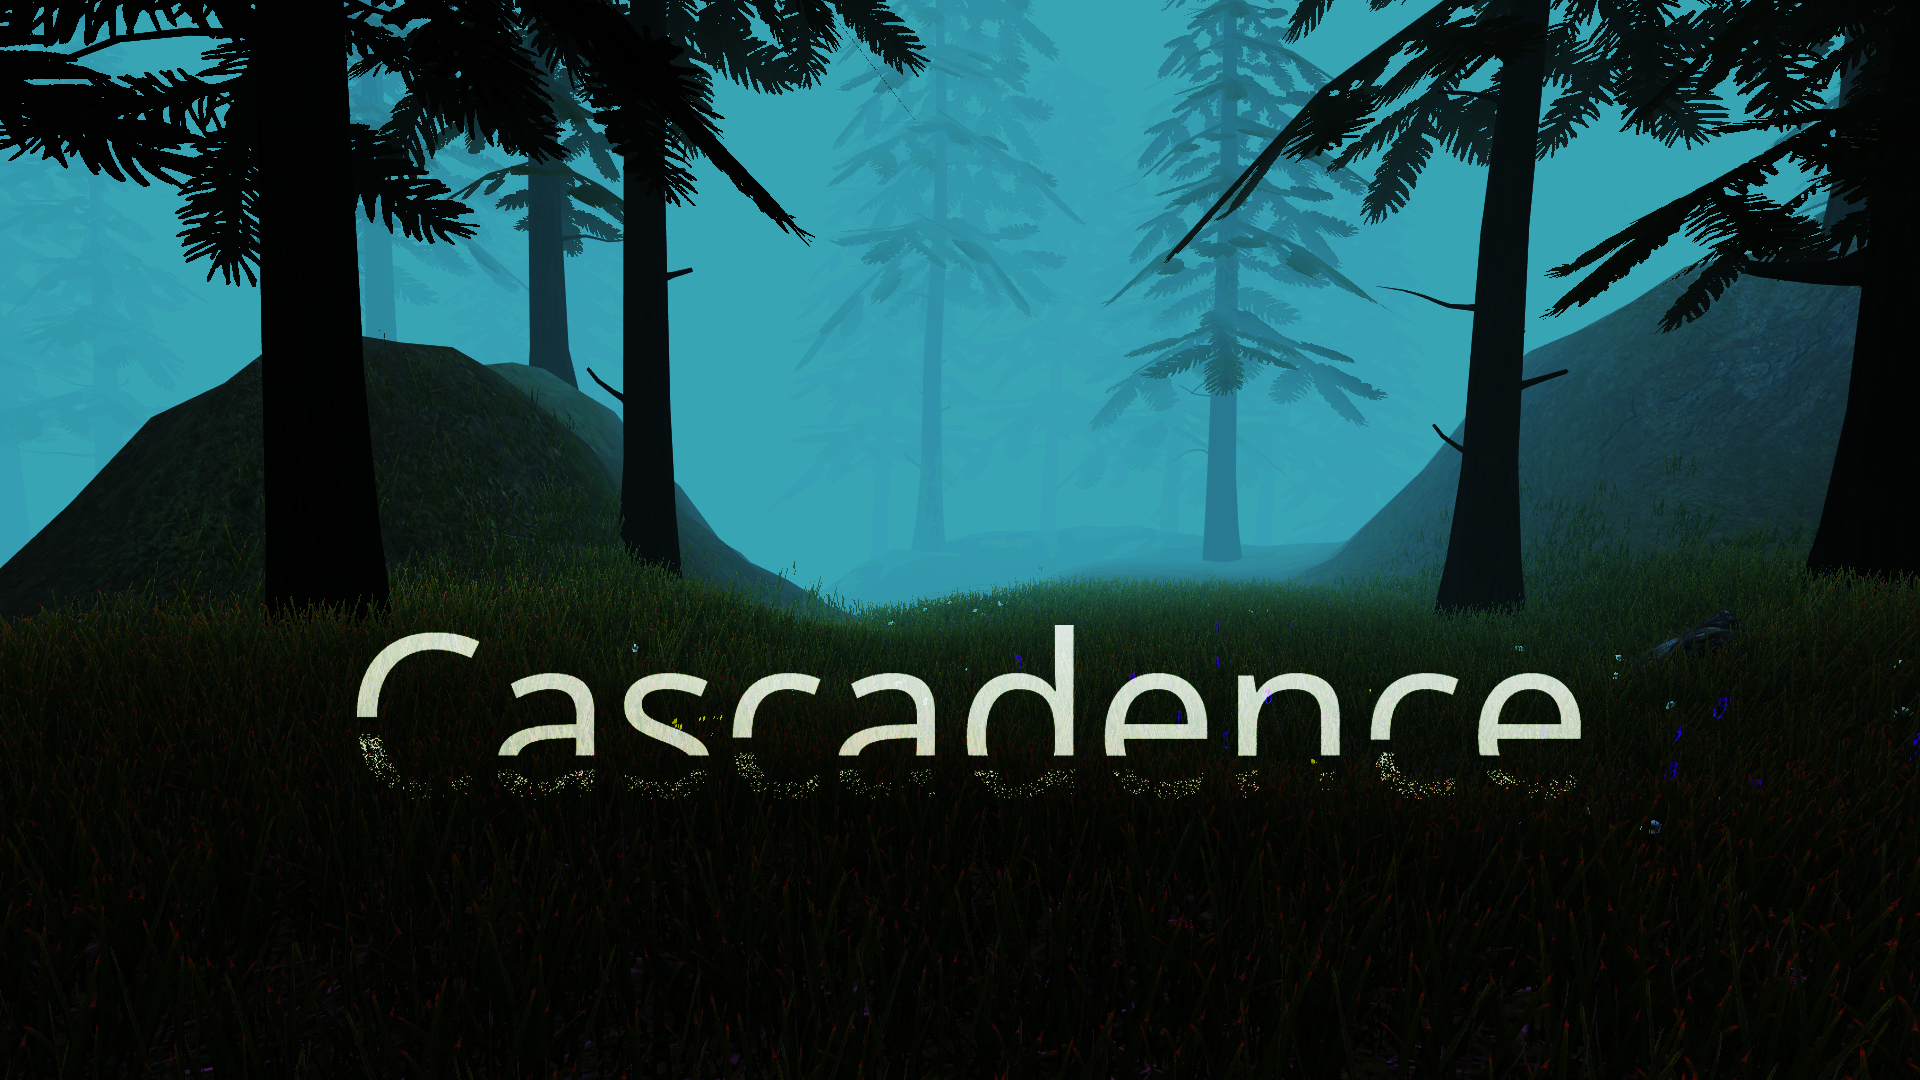
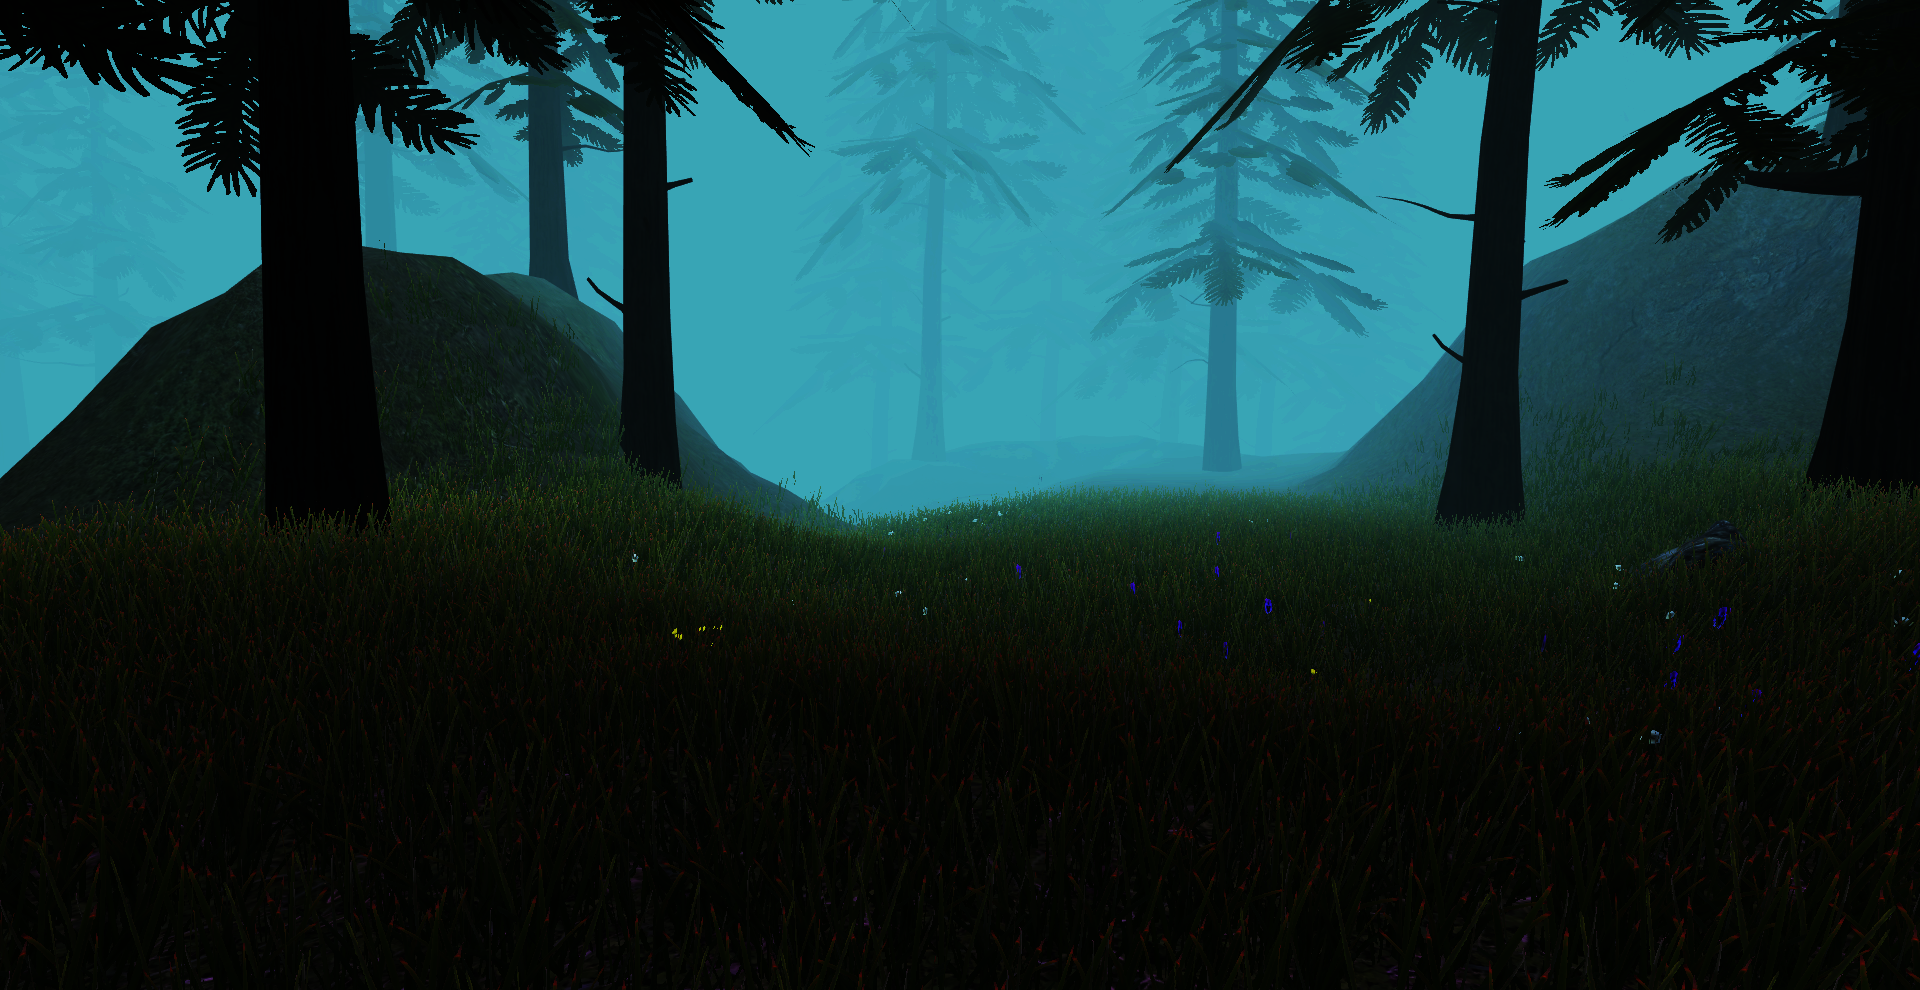
added dl button and responsive updates

diff --git a/stylesheet.css b/stylesheet.css
@@ -13,30 +13,72 @@ body {
     height: 100%;
 }
 
-#title_logo {
-  display: block;
-  max-width: 800px;
-  height: auto;
-  margin: 0 auto;
-  padding: 50px 20px 20px 20px;
+#logo-img-cont{
+    top: 0;
+    left: 50%;
+    -webkit-transform: translateX(-50%);
+    transform: translateX(-50%);
+    width: 100%;
+    position: absolute;
+    display: flex;
+    align-items: center;
+    justify-content: center;
 }
+
+#title_logo {
+    display: block;
+    height: auto;
+    width: 60%;
+    margin-top: 22%;
+}
+
+#dl-btn-cont{
+    top: 0;
+    left: 50%;
+    -webkit-transform: translateX(-50%);
+    transform: translateX(-50%);
+    width: 100%;
+    position: absolute;
+    display: flex;
+    align-items: center;
+    justify-content: center;
+  }
+  
+  #dl-btn {
+    font-size: 1.7vw;
+    margin-top: 41%;
+    box-shadow: 0 1px 8px #c466ff;
+    padding: 10px 30px;
+    background-color: #007bff00;
+}
+
+#dl-btn:hover{
+    box-shadow: 0 1px 12px #c466ff;
+    background-color: #007bff12;
+}
+
+#dl-btn:active{
+    margin-top: 41.1%;
+    box-shadow: 0 1px 18px #c466ff;
+
+}
+
+
 
 #email_cont {
     border-top: 30px solid rgb(0, 11, 16);
-    padding: 100px 0px;
+    padding: 100px 40px;
     background-color: #121319;
 }
 
 .cap-cont {
-    font-size: 30px;
     padding: 30px 0px;
     display: flex;
     align-items: center;
     justify-content: center;
     width: 100%;
-    /* top: 100px; */
     position: absolute;
-    height: 150px;
+    height: 14%;
     background-color: #000000e8;
   }
 
@@ -87,7 +129,7 @@ body {
 
 h2 {
     text-align: center;
-    font-size: 38px;
+    font-size: 2vw;
     margin: 0px;
     padding: 20px 10px;
     color: #47a9b7;
@@ -97,19 +139,7 @@ h2 {
   font-size: 30px;
 }
 
-#dl-btn-row {
-  max-width: 600px;
-  margin: 0 auto;
-  margin-top: 300px;
-  text-align: center;
-}
 
-#dl-btn {
-  font-size: 24px;
-  margin: 10px;
-  padding: 10px 30px;
-  background-color: #0058b7;
-}
 
 .fas {
   padding-left: 5px;
@@ -154,26 +184,14 @@ footer {
   color: rgb(210,210,210);
 }
 
-@media only screen and (max-width: 900px) and (min-width: 600px)  {
-    .cap-cont {
-        
-        padding: 30px 0px;
-        height: 80px;
-
-    }
-    h2{
-        font-size: 22px;
+@media only screen and (max-width: 1200px) and (min-width: 600px)  {
+    .sub-h1{
+        font-size: 26px;
     }
 }
 
 @media only screen and (max-width: 600px)  {
-    .cap-cont {
-        
-        padding: 20px 0px;
-        height: 50px;
-
-    }
-    h2{
-        font-size: 16px;
+    .sub-h1{
+        font-size: 23px;
     }
 }

diff --git a/index.html b/index.html
@@ -28,12 +28,15 @@
 <body>
   <main id="cont">
     <section id="splash_sec">
-    <img id="title-background" src="./imgs/Background.png" alt="Cascadence Logo">
-      <!-- <img id="title_logo" src="./imgs/Game-Logo-White.png" alt="Faded Domain Logo"> -->
-      <!-- <div id="dl-btn-row">
-        <div class="sub-h1 lg-head">Try the technical demo</div>
-        <a id="dl-btn" class="btn btn-primary" href="https://www.dropbox.com/s/vtgle1qngyt4e29/FadeDomain.zip?dl=1" role="button">Download <i class="fas fa-download"></i></a>
-      </div> -->
+        <img id="title-background" src="./imgs/Background.png" alt="Game Image">
+        <div id="logo-img-cont">
+            <img id="title_logo" src="./imgs/Full_Logo.png" alt="Cascadence Logo">
+        </div>
+      
+        <div id="dl-btn-cont">
+            <a id="dl-btn" class="btn btn-primary"  role="button">Try Early Alpha <i class="fas fa-download"></i></a>
+            <!-- <a id="dl-btn" class="btn btn-primary" href="https://www.dropbox.com/s/vtgle1qngyt4e29/FadeDomain.zip?dl=1"  role="button">Try Early Alpha<i class="fas fa-download"></i></a> -->
+        </div>
     </section>
     
     <section id="gply-1" class="gameplay_sec">
